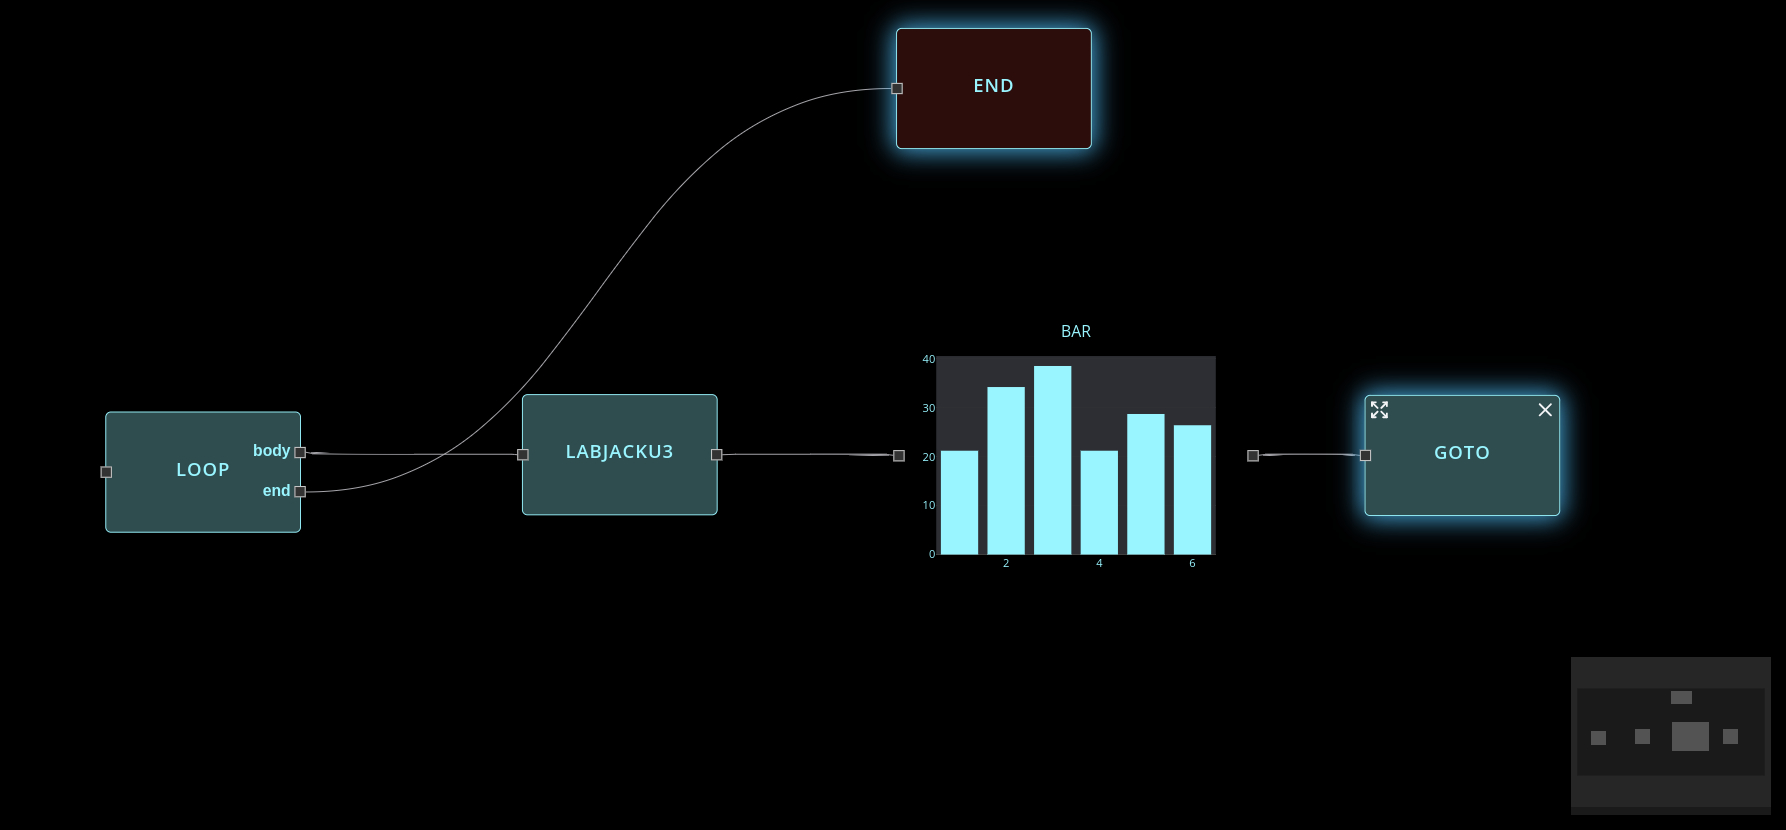
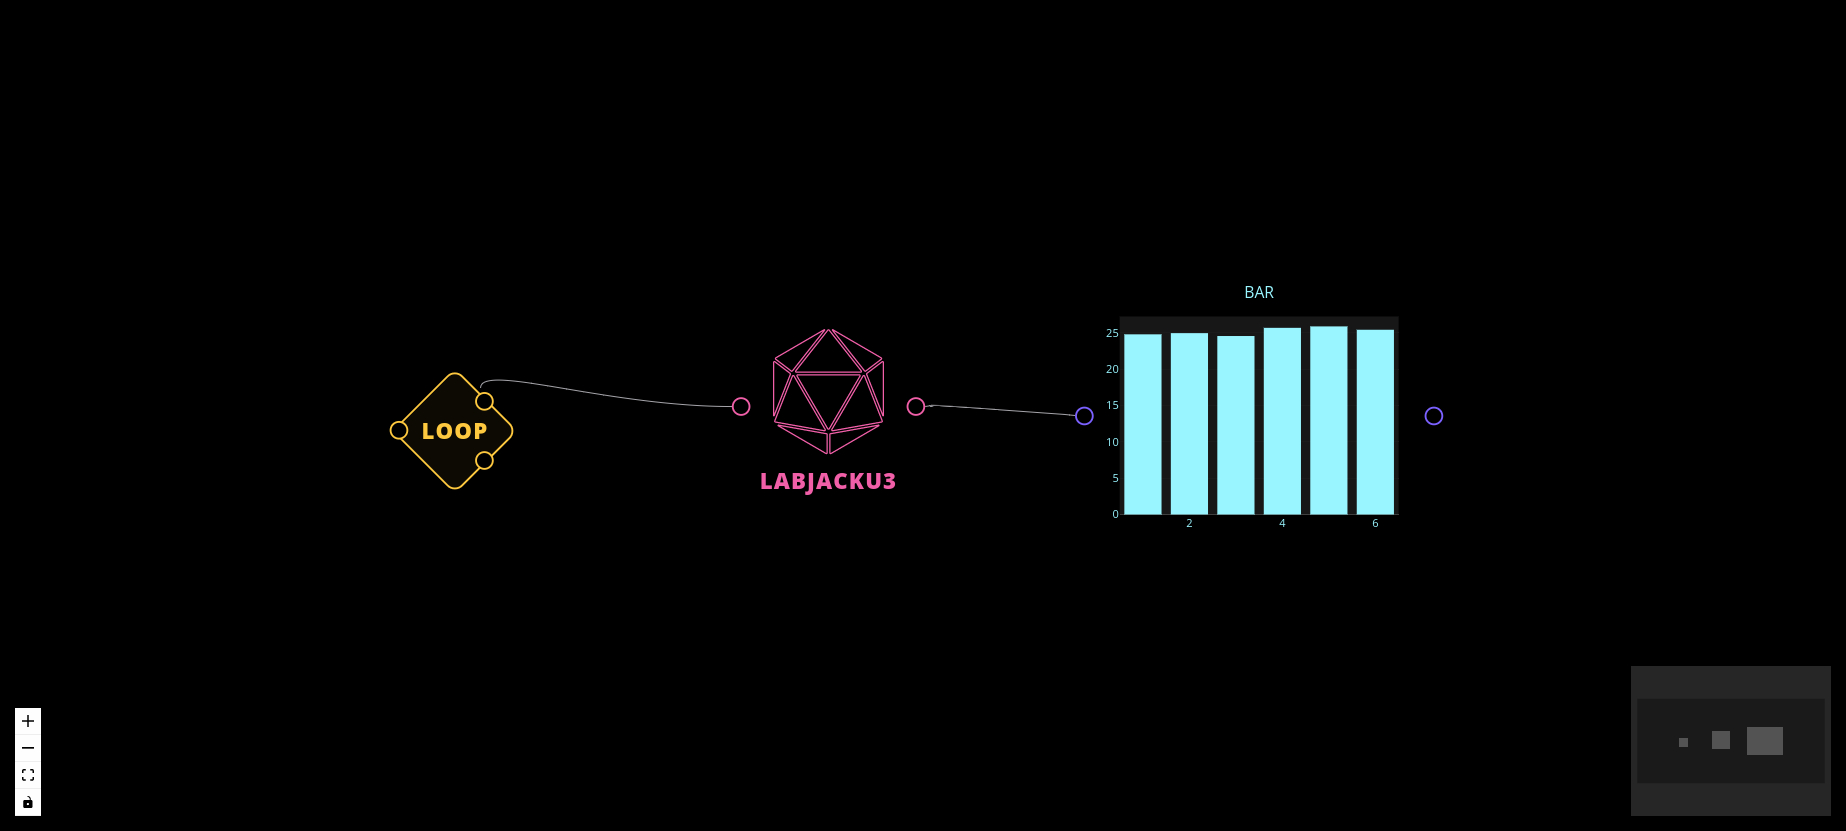
update Labjack Docs

diff --git a/docs/nodes/INSTRUMENTS/LABJACK/LABJACKU3/examples/EX1/example.md b/docs/nodes/INSTRUMENTS/LABJACK/LABJACKU3/examples/EX1/example.md
@@ -1,7 +1,6 @@
 <!--- Add SEO here --->
 
-In this example, we show how to record and display temperature measurements with a LABJACK U3 device and update them in a Loop. The appendix contains all information about hardware requirements and sensor connections (Images).
-
+In this example, we show how to record and display temperature measurements with a LABJACK U3 device and update them in a Loop. The appendix contains all information about hardware requirements and sensor connections (Images). You'll also need to install the Labjack exodriver in order to communicate with the U3 device through USB : https://labjack.com/pages/support?doc=/software-driver/installer-downloads/exodriver/.
 
 After the temperature sensors were connected to the LABJACK U3 device, the following nodes can be placed:
 
@@ -9,6 +8,4 @@ The [`LABJACKU3`](https://github.com/flojoy-io/nodes/blob/main/INSTRUMENTS/LABJA
 
 The [`BAR`](https://github.com/flojoy-io/nodes/blob/main/VISUALIZERS/PLOTLY/BAR/BAR.py) node displays all temperature measurements on the same figure.
 
-The [`END`](https://github.com/flojoy-io/nodes/blob/main/LOGIC_GATES/TERMINATORS/END/END.py) node terminates the process.
-
-We want to update the results with the latest measurements. To do that, we add the [`LOOP`](https://github.com/flojoy-io/nodes/blob/main/LOGIC_GATES/LOOPS/LOOP/LOOP.py) and the [`GOTO`](https://github.com/flojoy-io/nodes/blob/main/LOGIC_GATES/LOOPS/GOTO/GOTO.py) nodes to create a loop around our [`LABJACKU3`](https://github.com/flojoy-io/nodes/blob/main/INSTRUMENTS/LABJACK/LABJACKU3/LABJACKU3.py) and [`BAR`](https://github.com/flojoy-io/nodes/blob/main/VISUALIZERS/PLOTLY/BAR/BAR.py) nodes. (Refer to the `LOOP` node documentation for more information).
+We want to update the results with the latest measurements. To do that, we add the [`LOOP`](https://github.com/flojoy-io/nodes/blob/main/LOGIC_GATES/LOOPS/LOOP/LOOP.py) node to create a loop around our [`LABJACKU3`](https://github.com/flojoy-io/nodes/blob/main/INSTRUMENTS/LABJACK/LABJACKU3/LABJACKU3.py) and [`BAR`](https://github.com/flojoy-io/nodes/blob/main/VISUALIZERS/PLOTLY/BAR/BAR.py) nodes. (Refer to the `LOOP` node documentation for more information).
